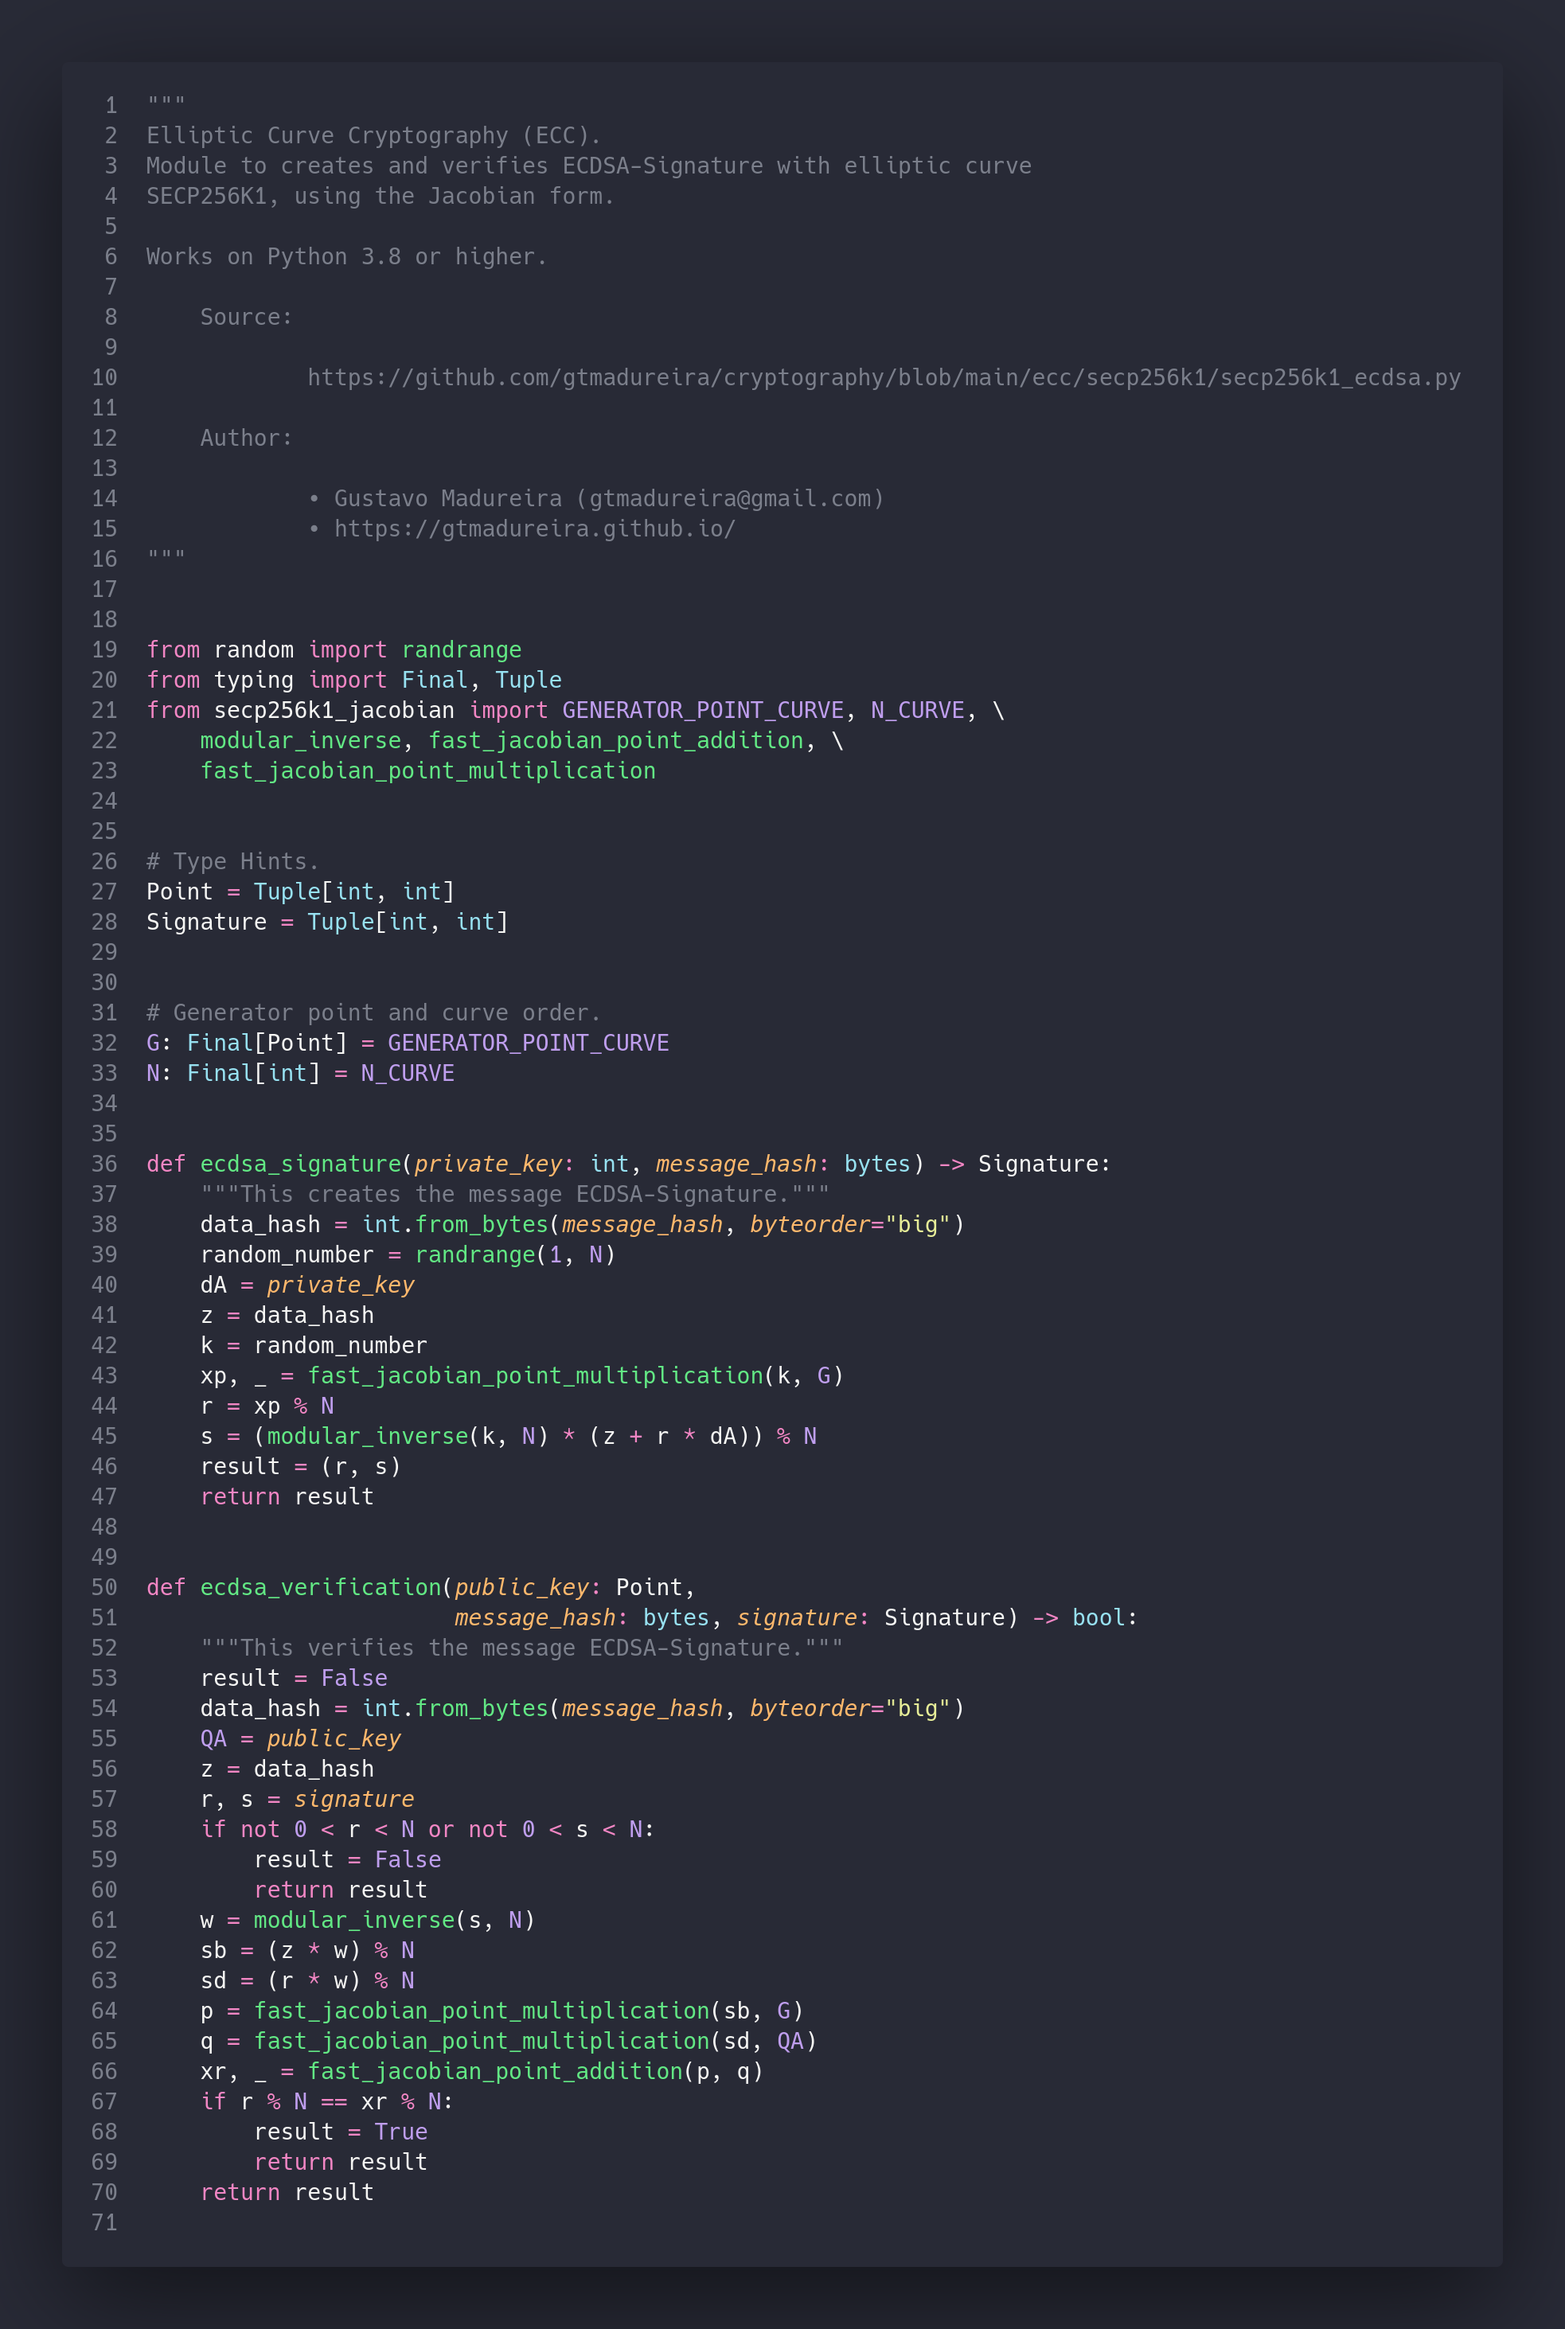
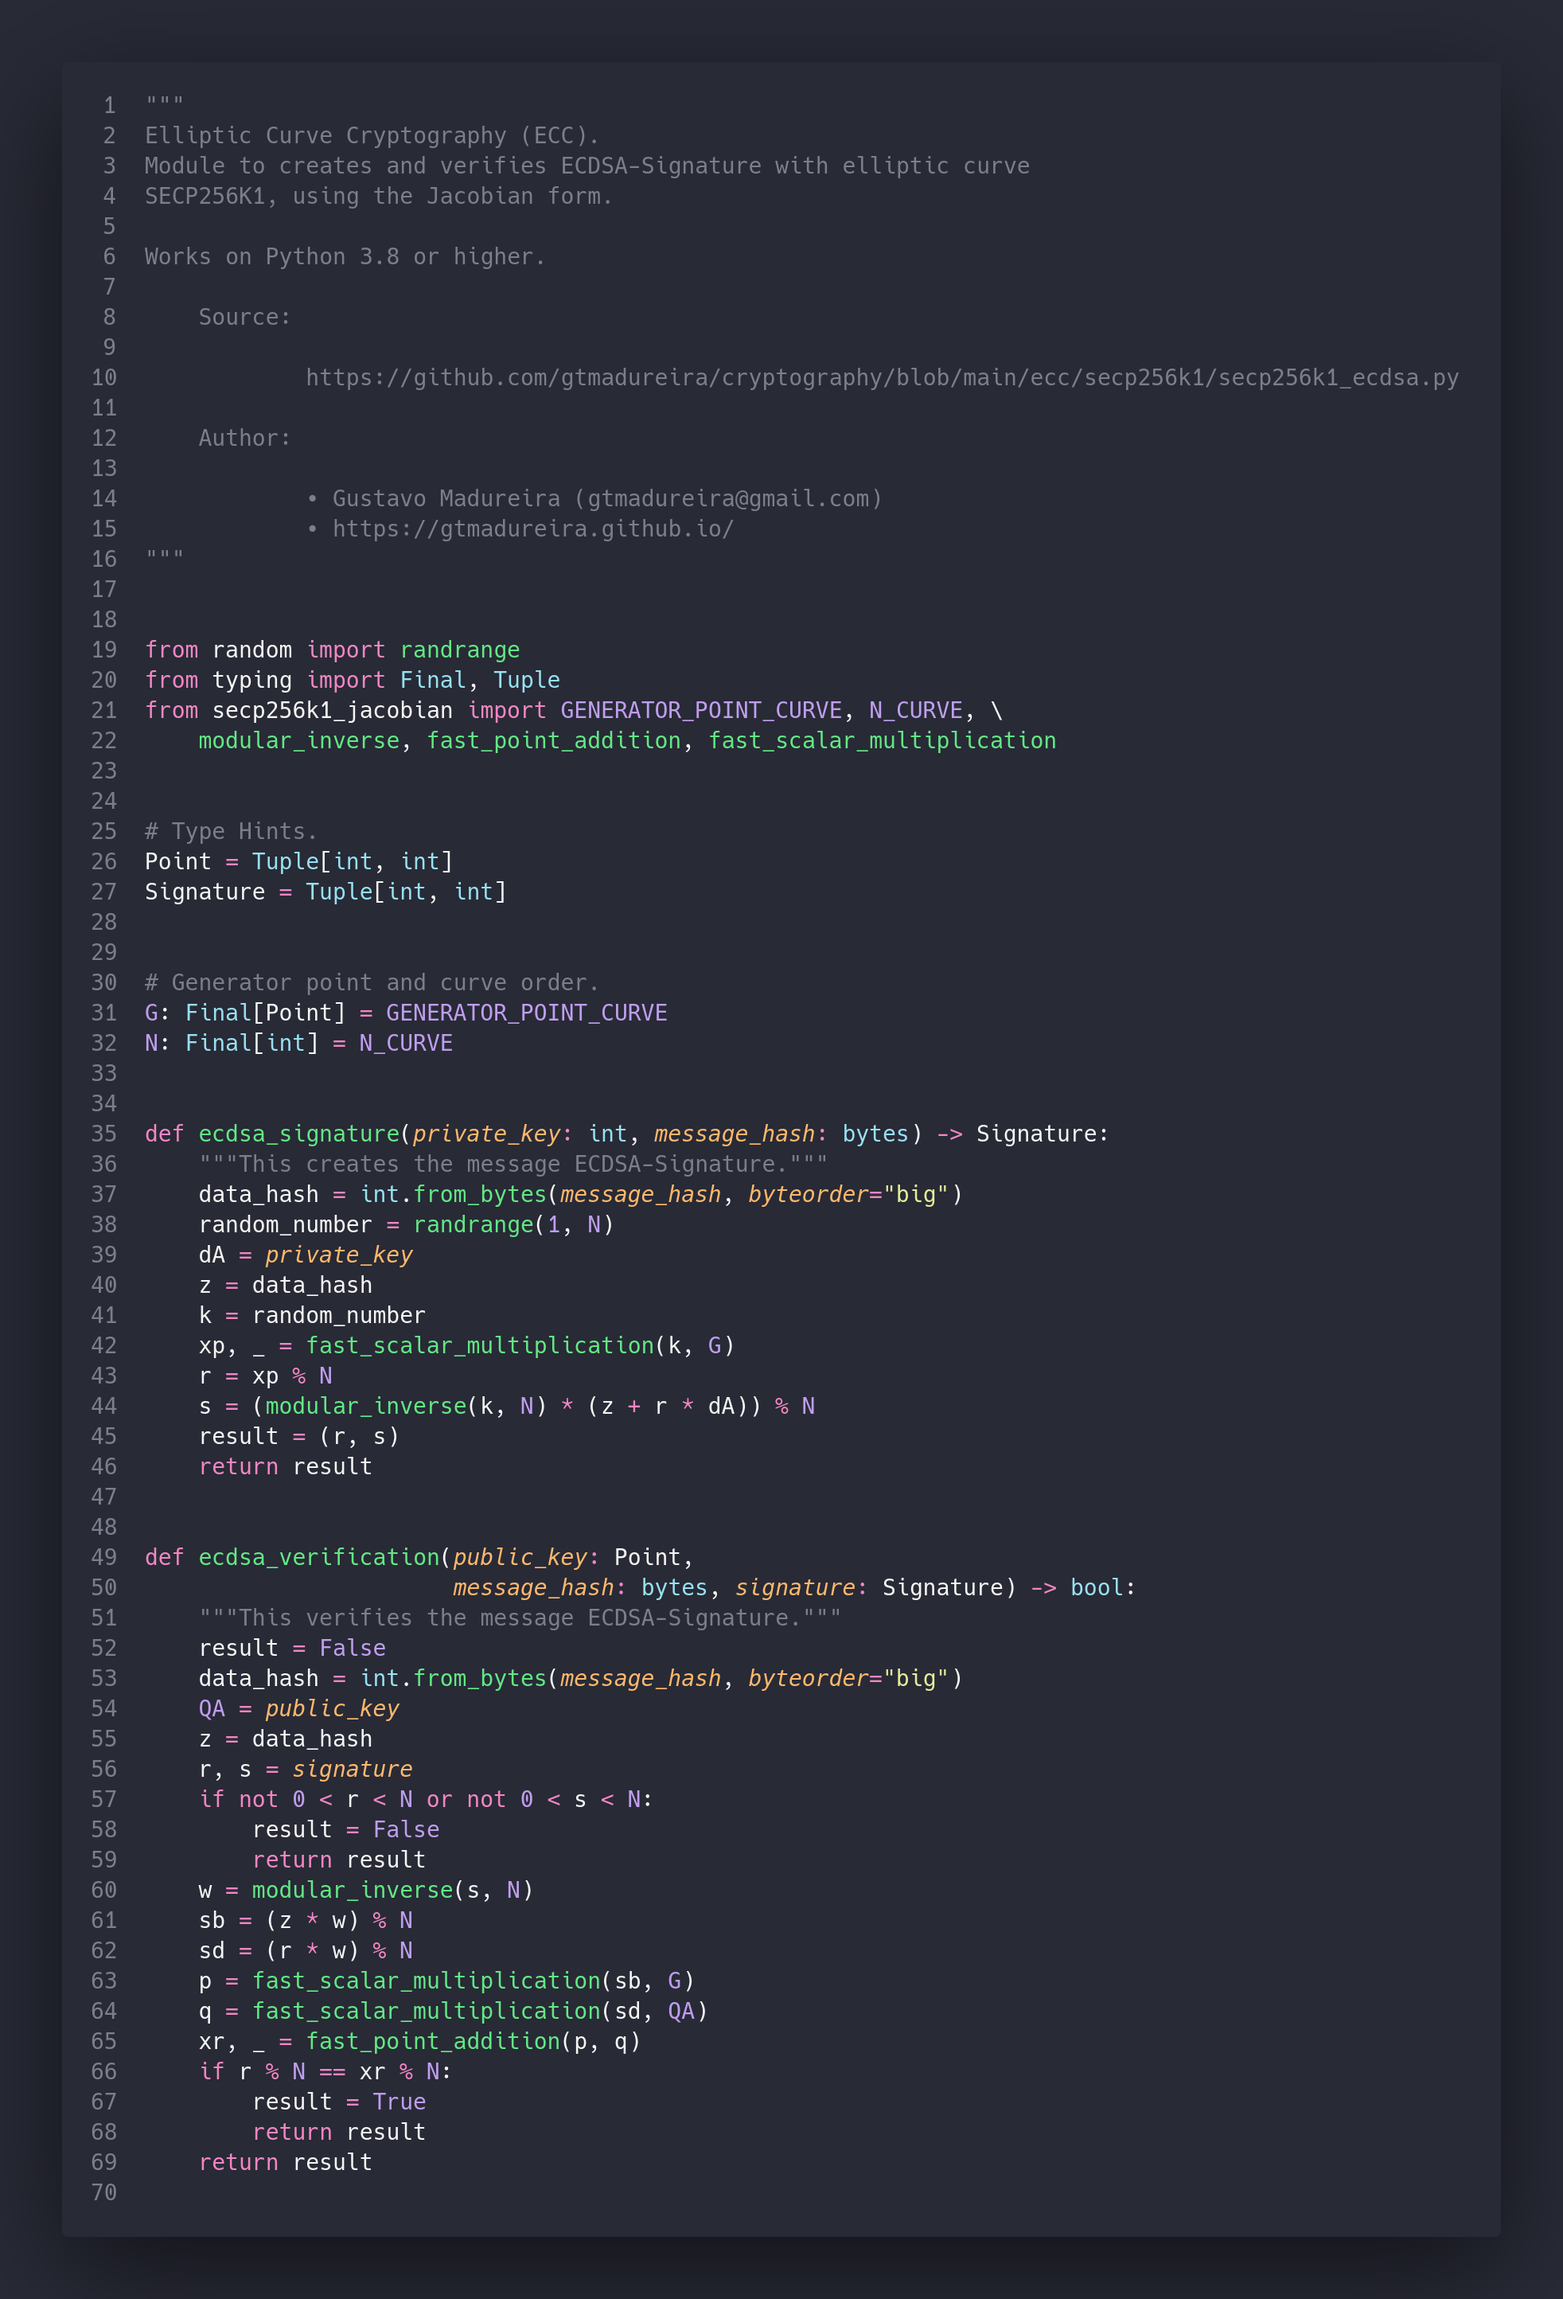
Elliptic Curve Cryptography (ECC), with curve secp256k1.

diff --git a/ecc/secp256k1/secp256k1_jacobian.py b/ecc/secp256k1/secp256k1_jacobian.py
@@ -185,7 +185,7 @@ def has_even_y(point: Point) -> bool:
     """
     assert not is_infinite(point)
     assert is_on_curve(point)
-    _, yp = point
+    yp = y(point)
     result = yp % 2 == 0
     return result
 
@@ -389,7 +389,7 @@ def jacobian_point_addition(
     return result
 
 
-def fast_jacobian_point_addition(point_p: Point, point_q: Point) -> Point:
+def fast_point_addition(point_p: Point, point_q: Point) -> Point:
     """
     Fast point addition on the elliptic curve over affine (x, y) to
     Jacobian coordinate (x, y, z).
@@ -413,7 +413,7 @@ def fast_jacobian_point_addition(point_p: Point, point_q: Point) -> Point:
     return result
 
 
-def fast_jacobian_point_multiplication(scalar: int, point: Point) -> Point:
+def fast_scalar_multiplication(scalar: int, point: Point) -> Point:
     """
     Fast scalar multiplication of point on the elliptic curve over
     affine (x, y) to Jacobian coordinate (x, y, z).
@@ -425,7 +425,7 @@ def fast_jacobian_point_multiplication(scalar: int, point: Point) -> Point:
         result = POINT_INFINITY_CURVE
         return result
     if scalar < 0 or scalar >= N_CURVE:
-        result = fast_jacobian_point_multiplication(scalar % N_CURVE, point)
+        result = fast_scalar_multiplication(scalar % N_CURVE, point)
         return result
     scalar_binary = bin(scalar)[2:]
     jacobian = to_jacobian(point)
@@ -465,7 +465,7 @@ if __name__ == "__main__":
     elapsed = 0.0
     while elapsed < 900.0:
         private_key = randrange(1, N_CURVE)
-        public_key = fast_jacobian_point_multiplication(
+        public_key = fast_scalar_multiplication(
             private_key, GENERATOR_POINT_CURVE)
         if has_even_y(public_key):
             prefix = "02"

diff --git a/ecc/secp256k1/secp256k1_ecdsa.py b/ecc/secp256k1/secp256k1_ecdsa.py
@@ -40,8 +40,7 @@ Works on Python 3.8 or higher.
 from random import randrange
 from typing import Final, Tuple
 from secp256k1_jacobian import GENERATOR_POINT_CURVE, N_CURVE, \
-    modular_inverse, fast_jacobian_point_addition, \
-    fast_jacobian_point_multiplication
+    modular_inverse, fast_point_addition, fast_scalar_multiplication
 
 
 # Type Hints.
@@ -61,7 +60,7 @@ def ecdsa_signature(private_key: int, message_hash: bytes) -> Signature:
     dA = private_key
     z = data_hash
     k = random_number
-    xp, _ = fast_jacobian_point_multiplication(k, G)
+    xp, _ = fast_scalar_multiplication(k, G)
     r = xp % N
     s = (modular_inverse(k, N) * (z + r * dA)) % N
     result = (r, s)
@@ -82,9 +81,9 @@ def ecdsa_verification(public_key: Point,
     w = modular_inverse(s, N)
     sb = (z * w) % N
     sd = (r * w) % N
-    p = fast_jacobian_point_multiplication(sb, G)
-    q = fast_jacobian_point_multiplication(sd, QA)
-    xr, _ = fast_jacobian_point_addition(p, q)
+    p = fast_scalar_multiplication(sb, G)
+    q = fast_scalar_multiplication(sd, QA)
+    xr, _ = fast_point_addition(p, q)
     if r % N == xr % N:
         result = True
         return result
@@ -105,7 +104,7 @@ if __name__ == "__main__":
     private_key = \
[1 lines of base64/hex data omitted]
 
-    public_key = fast_jacobian_point_multiplication(private_key, G)
+    public_key = fast_scalar_multiplication(private_key, G)
 
     message = b"My name is Gustavo Madureira. This is a ECDSA-Signature test."
 

diff --git a/ecc/secp256k1/secp256k1_test_generator.py b/ecc/secp256k1/secp256k1_test_generator.py
@@ -2,7 +2,7 @@
 
 
 from typing import Final, Tuple
-from secp256k1_jacobian import fast_jacobian_point_multiplication
+from secp256k1_jacobian import fast_scalar_multiplication
 from secp256k1_weierstrass import GENERATOR_POINT_CURVE, has_even_y, \
     ec_point_multiplication
 
@@ -23,7 +23,7 @@ if has_even_y(public_key_w):
 else:
     prefix_w = "03"
 
-public_key_j = fast_jacobian_point_multiplication(private_key, G)
+public_key_j = fast_scalar_multiplication(private_key, G)
 if has_even_y(public_key_j):
     prefix_j = "02"
 else:

diff --git a/ecc/secp256k1/secp256k1_weierstrass.py b/ecc/secp256k1/secp256k1_weierstrass.py
@@ -179,7 +179,7 @@ def has_even_y(point: Point) -> bool:
     """
     assert not is_infinite(point)
     assert is_on_curve(point)
-    _, yp = point
+    yp = y(point)
     result = yp % 2 == 0
     return result
 
